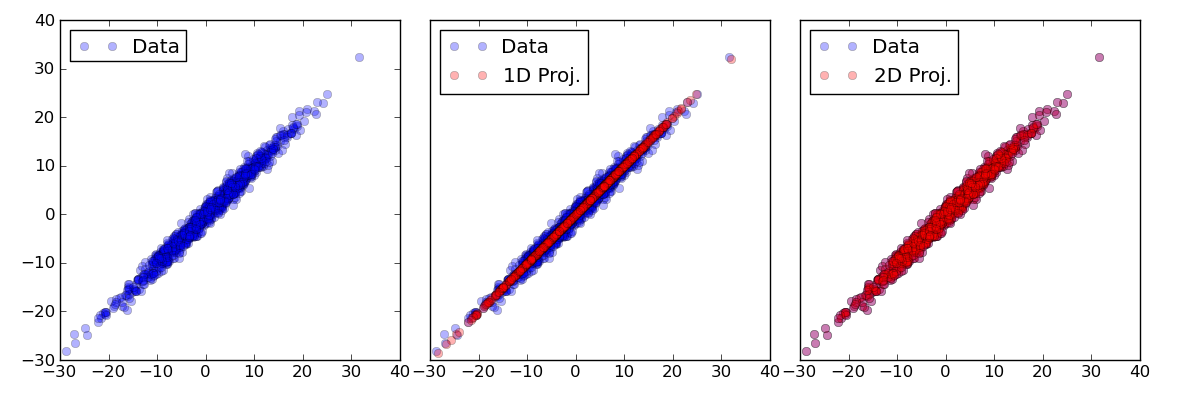
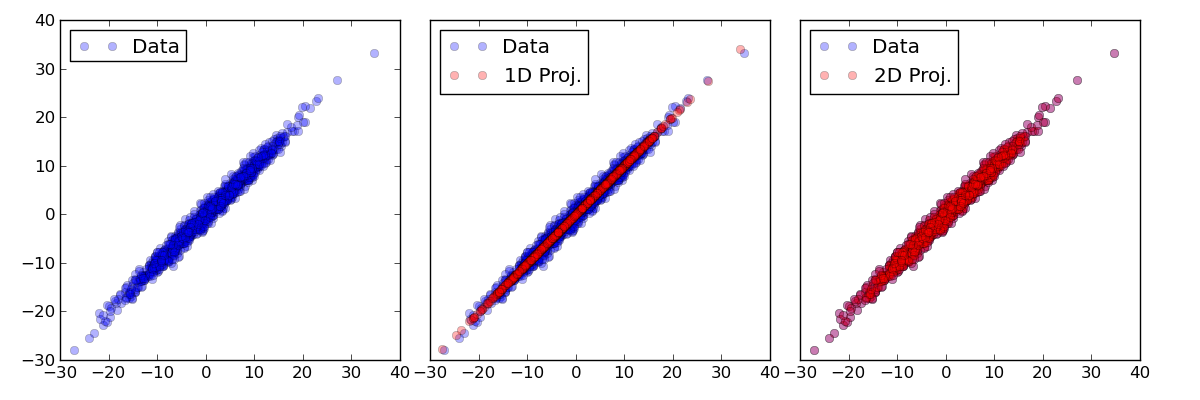
better stopping criterion

diff --git a/empca.py b/empca.py
@@ -16,15 +16,19 @@ class EMPCA(object):
     var  : Optional array of variances associated with
            the data.  Only used for mean estimation
            currently.
-    max_iter : Number of iterations to run EM.
+    tol  : Tolerance criterion for delta squared error.
+    max_iter   : Maximum number of iterations to run EM.
+    check_iter : Interval number of EM iterations betwee
+                 convergence checks.
 
     To Do:
     ------
     - Automatic latent dimensionality determination.
-    - Robust stopping criteria.
     
     """
-    def __init__(self,data,M,max_iter=10,var=None):
+    def __init__(self,data,M,var=None,
+                 max_iter=1000,check_iter=10,
+                 tol=1.e-4):
         """
         `D` : Feature dimensionality
         `N` : Number of samples
@@ -36,41 +40,68 @@ class EMPCA(object):
         self.N = data.shape[1]
         self.M = M 
         self.data = np.atleast_2d(data)
-        self.var = var
         self.lam = np.random.randn(self.D,self.M)
 
         # zero mean the data
-        self.zero_mean()
+        self.zero_mean(var)
 
         # run EM
-        self.run_EM()
+        self.run_EM(max_iter,tol,check_iter)
 
-    def zero_mean(self):
-
-        if self.var!=None:
-            self.var = np.atleast_2d(self.var)
-            mean = np.sum(self.data / self.var, axis=0) / \
-                np.sum(1.0 / self.var, axis=0)
+    def zero_mean(self,var):
+        """
+        Subtract the mean, use weighted mean if variance 
+        is given.
+        """
+        if var!=None:
+            var  = np.atleast_2d(var)
+            mean = np.sum(self.data / var, axis=0) / \
+                np.sum(1.0 / var, axis=0)
         else:
             mean = np.mean(self.data, axis=0)
 
-    def run_EM(self, maxiter=10):
-
+    def run_EM(self,max_iter,tol,check_iter):
+        """
+        Run Expectation-Maximization
+        """
         i = 0
-        while (i < maxiter) :
+        sq_error = np.Inf
+        dt_error = np.Inf
+        while ((i < max_iter) & (dt_error>tol)):
             
             self.run_E_step()
             self.run_M_step()
+            if np.mod(i,check_iter)==0:
+                sq_error_new = self.total_squared_error()
+                dt_error = sq_error - sq_error_new
+                sq_error = sq_error_new
             i += 1
 
     def run_E_step(self):
-
+        """
+        Single Expectation step
+        """
         lamTdata = np.dot(self.lam.T,self.data)
         lamTlamI = np.linalg.inv(np.dot(self.lam.T,self.lam))
         self.lat = np.dot(lamTlamI,lamTdata)
 
     def run_M_step(self):
-
+        """
+        Single Maximization step
+        """
         latlatTI = np.linalg.inv(np.dot(self.lat,self.lat.T))
         datalatT = np.dot(self.data,self.lat.T)
         self.lam = np.dot(datalatT,latlatTI)
+
+    def project(self):
+        """
+        Project the latents into the data space.
+        """
+        self.projections = np.dot(self.lam,self.lat)
+
+    def total_squared_error(self):
+        """
+        Calculate the total squared error of the model.
+        """
+        self.project()
+        return np.sum((self.data - self.projections)**2.)
